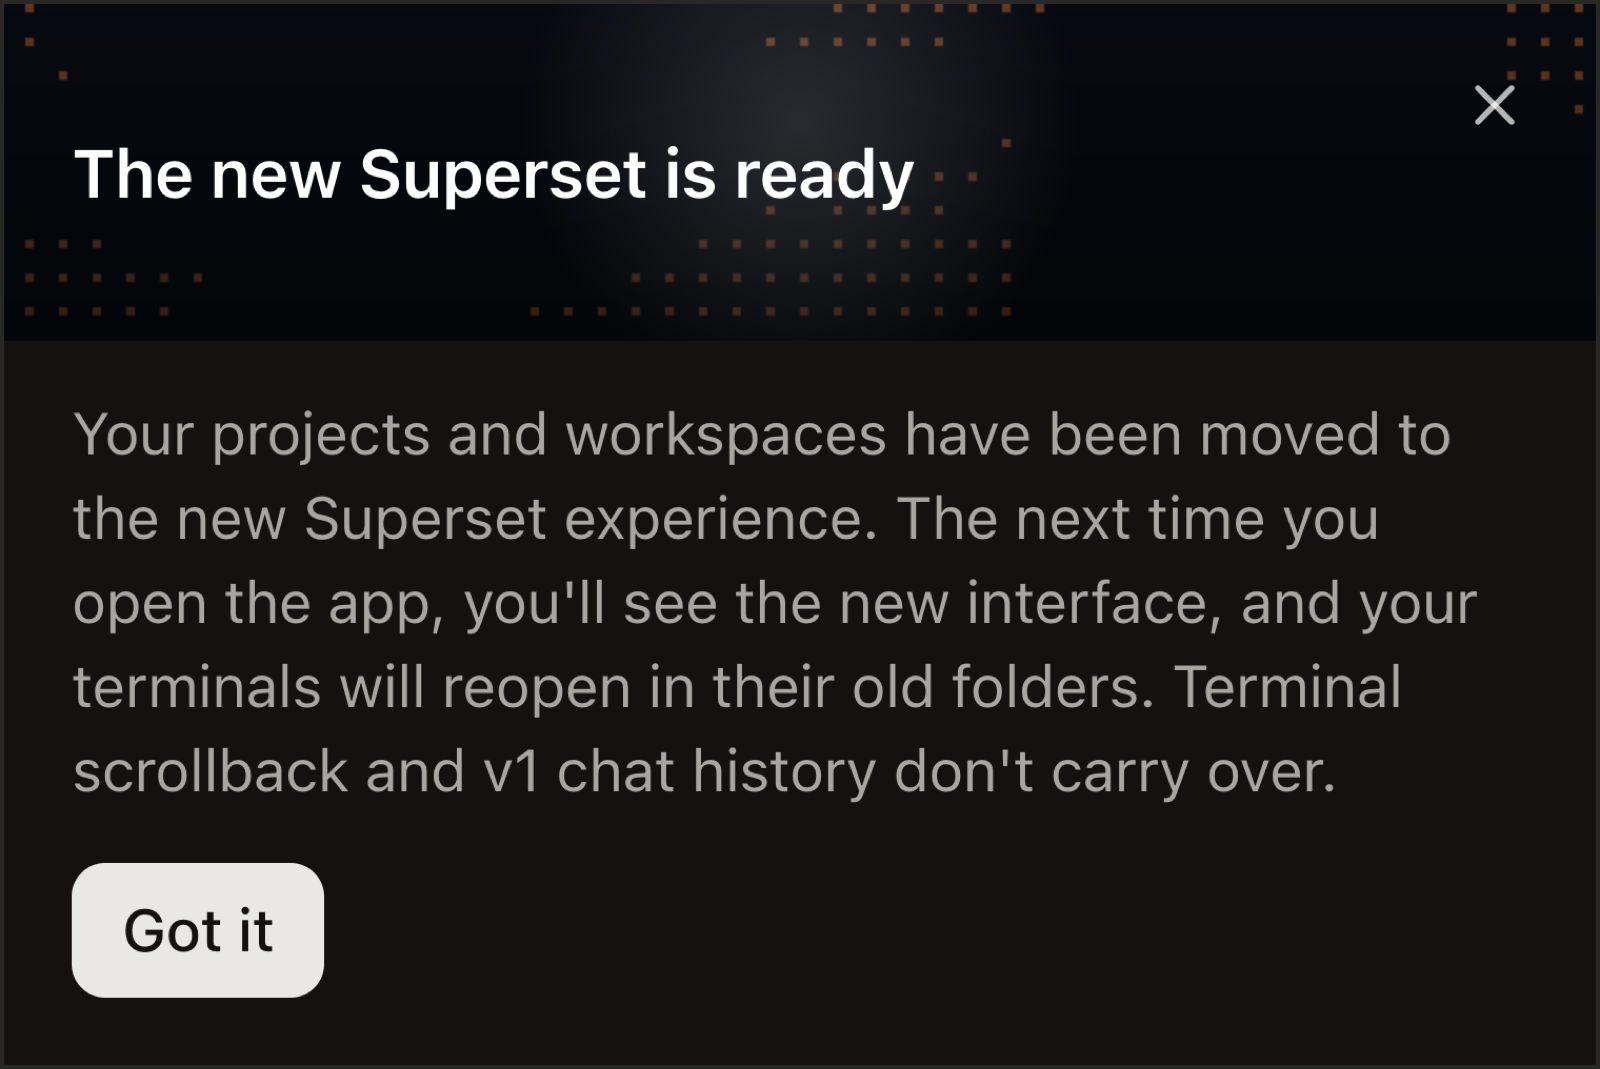
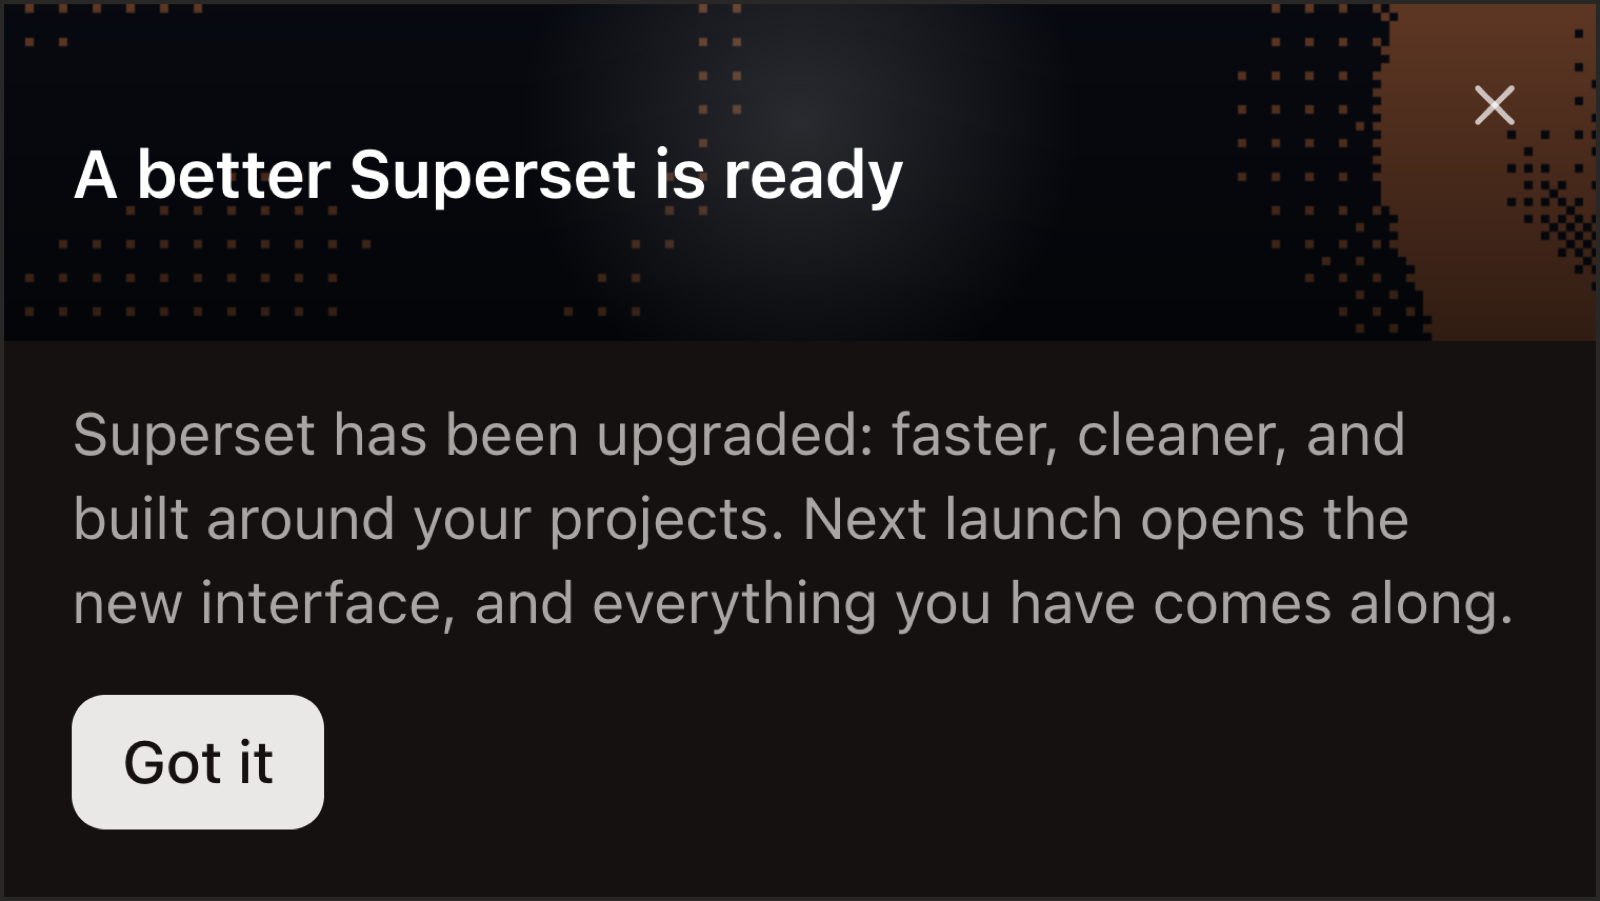
copy(desktop): flip cards sell the upgrade instead of listing caveats
Per Kiet: it's largely the same Superset, improved. Pre-flip pitches the
upgrade (faster, cleaner, built around your projects) and reassures that
everything comes along; welcome reinforces continuity. Loss disclosures
live in docs, not the moment.

diff --git a/apps/desktop/src/renderer/routes/_authenticated/components/V1FlipNotice/V1FlipNotice.tsx b/apps/desktop/src/renderer/routes/_authenticated/components/V1FlipNotice/V1FlipNotice.tsx
@@ -51,8 +51,8 @@ export function V1FlipNotice() {
 
 	return (
 		<FlipNoticeCard
-			title="The new Superset is ready"
-			body="Your projects and workspaces have been moved to the new Superset experience. The next time you open the app, you'll see the new interface, and your terminals will reopen in their old folders. Terminal scrollback and v1 chat history don't carry over."
+			title="A better Superset is ready"
+			body="Superset has been upgraded: faster, cleaner, and built around your projects. Next launch opens the new interface, and everything you have comes along."
 			ctaLabel="Got it"
 			onDismiss={dismiss}
 		/>

diff --git a/apps/desktop/src/renderer/routes/_authenticated/components/V1FlipNotice/V2FlipWelcome.tsx b/apps/desktop/src/renderer/routes/_authenticated/components/V1FlipNotice/V2FlipWelcome.tsx
@@ -41,7 +41,7 @@ export function V2FlipWelcome() {
 	return (
 		<FlipNoticeCard
 			title="Welcome to the new Superset"
-			body="Everything came with you: your projects and workspaces are in the sidebar, and each workspace's terminals reopen in their old folders when you open it. If anything looks missing, Settings → Experimental → Import from v1 can bring it over."
+			body="Same Superset, upgraded. Everything came with you: projects and workspaces in the sidebar, terminals right where they left off."
 			ctaLabel="Got it"
 			onDismiss={dismiss}
 		/>
